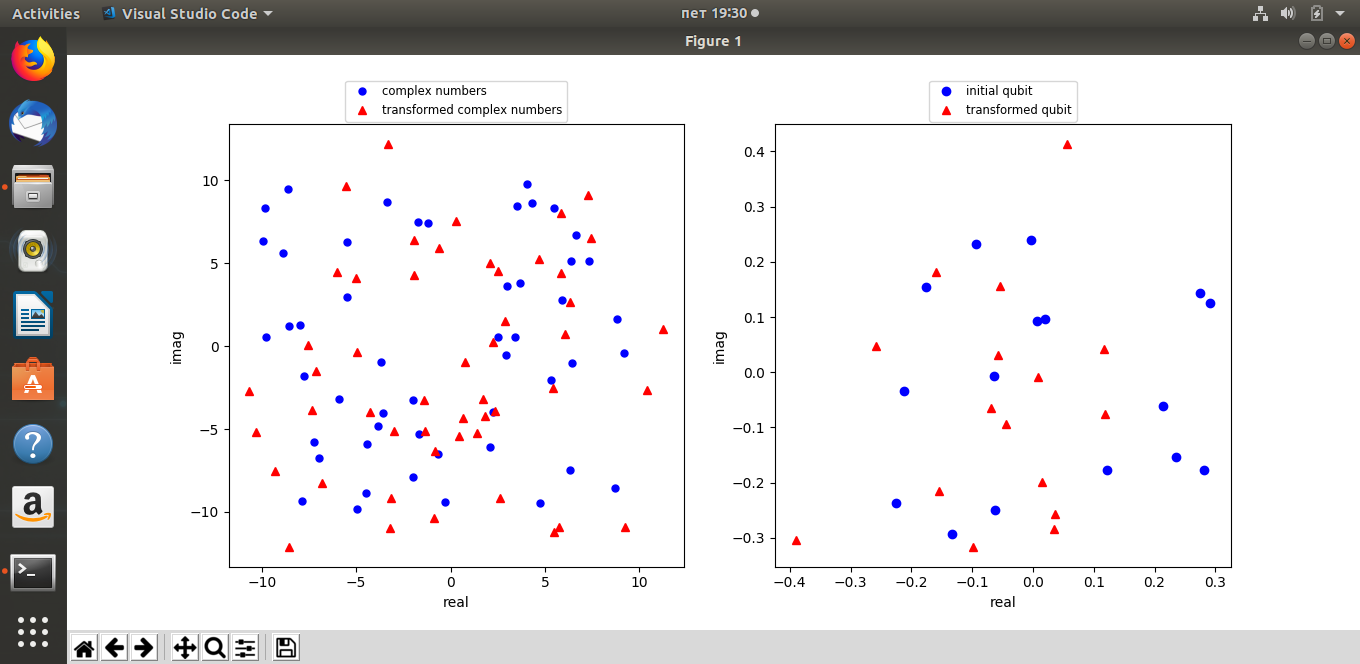
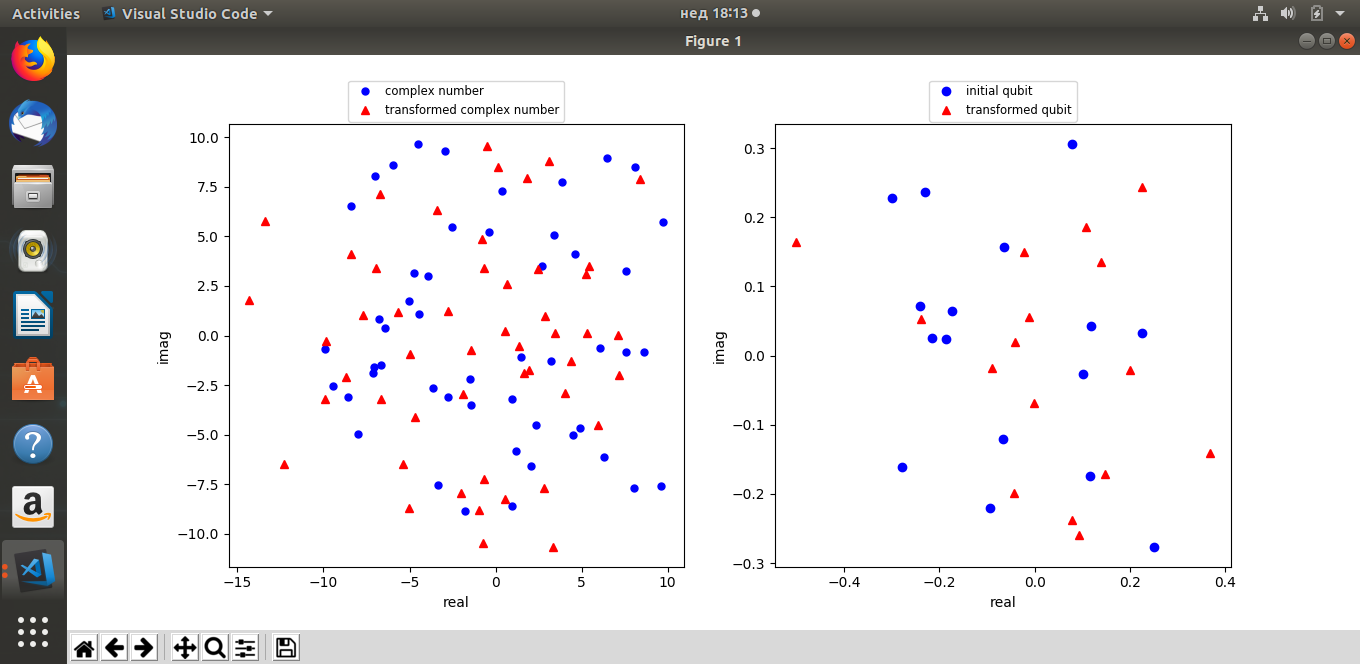
small fix

diff --git a/quantum_fourier.py b/quantum_fourier.py
@@ -101,7 +101,7 @@ class Complex:
             return 0
 
     def trigform(self):
-        return '{}(cos({}) + i*sin({}))'.format(round(self.modulus(), 3), \
+        return '{}*(cos({}) + i*sin({}))'.format(round(self.modulus(), 3), \
             round(self.arg(), 3), round(self.arg(), 3))
 
     def __round__(self, ndigits=0):
@@ -165,8 +165,11 @@ class Complex:
         if isinstance(z, Complex):
             self._real += z.real
             self._imag += z.imag
+            self._real_rounded = round(self._real, 3)
+            self._imag_rounded = round(self._imag, 3)
         else:
             self._real += z
+            self._real_rounded = round(self._real, 3)
 
         return self
 
@@ -190,8 +193,11 @@ class Complex:
         if isinstance(z, Complex):
             self._real -= z.real
             self._imag -= z.imag
+            self._real_rounded = round(self._real, 3)
+            self._imag_rounded = round(self._imag, 3)
         else:
             self._real -= z
+            self._real_rounded = round(self._real, 3)
 
         return self
 
@@ -215,9 +221,13 @@ class Complex:
         if isinstance(z, Complex):
             self._real = self._real * z.real - self._imag * z.imag
             self._imag = self._real * z.imag + self._imag * z.real
+            self._real_rounded = round(self._real, 3)
+            self._imag_rounded = round(self._imag, 3)
         else:
             self._real *= z
             self._imag *= z
+            self._real_rounded = round(self._real, 3)
+            self._imag_rounded = round(self._imag, 3)
 
         return self
 
@@ -230,8 +240,7 @@ class Complex:
         return res
 
     def __rtruediv__(self, z):
-        res = z * self.conjugate() / (self.modulus() ** 2)
-        return res
+        return z * self.conjugate() / (self.modulus() ** 2)
 
     def __pow__(self, k):
         arg = self.arg()
@@ -498,12 +507,15 @@ class QubitBloch(Qubit):
     def __init__(self, theta=0, phi=0, coeffs=None):
         if coeffs != None:
             if type(coeffs) == list:
-                self._theta = 2 * math.acos(coeffs[0].real)
-                self._phi = coeffs[1].arg()
-                
-                self._bits_superpos = 1
-                self._coeffs_len = 2
-                self._coeffs = coeffs
+                if len(coeffs) > 2:
+                    raise ValueError('incorrect coeffs length for qubit on Bloch\'s sphere (expected 2)')
+                else:
+                    self._theta = 2 * math.acos(coeffs[0].real)
+                    self._phi = coeffs[1].arg()
+                    
+                    self._bits_superpos = 1
+                    self._coeffs_len = 2
+                    self._coeffs = coeffs
             else:
                 raise ValueError('expected list of Complex coeffs, given {}'.format(type(coeffs)))
         else:
@@ -581,21 +593,24 @@ def qfourier(list_param):
     
             transformed.append(bk)
     elif type(list_param) == list:
-        if isinstance(list_param[0], Complex):
-            N = len(list_param)
-    
-            for k in range(N):
-                bk = (1 / math.sqrt(N)) * Complex.csum([list_param[j] * \
-                    ComplexTrig(2 * math.pi * j * k / N) for j in range(N)])
-    
-                transformed.append(bk)
-        elif isinstance(list_param[0], QubitBloch):
-            transformed = list(map(lambda q: QubitBloch(coeffs=qfourier(q.coeffs)), list_param))
-        elif isinstance(list_param[0], Qubit):
-            transformed = list(map(lambda q: Qubit(qfourier(q.coeffs)), list_param))
+        if len(list_param) > 0:
+            if isinstance(list_param[0], Complex):
+                N = len(list_param)
+        
+                for k in range(N):
+                    bk = (1 / math.sqrt(N)) * Complex.csum([list_param[j] * \
+                        ComplexTrig(2 * math.pi * j * k / N) for j in range(N)])
+        
+                    transformed.append(bk)
+            elif isinstance(list_param[0], QubitBloch):
+                transformed = list(map(lambda q: QubitBloch(coeffs=qfourier(q.coeffs)), list_param))
+            elif isinstance(list_param[0], Qubit):
+                transformed = list(map(lambda q: Qubit(qfourier(q.coeffs)), list_param))
+            else:
+                raise TypeError('unsupported object type for QFT')
         else:
-            raise TypeError('unsupported type for QFT')
+            raise ValueError('empty list of coeffs')
     else:
-        raise TypeError('unsupported type for QFT')
+        raise TypeError('unsupported collection type for QFT')
 
     return transformed

diff --git a/plot_sphere.py b/plot_sphere.py
@@ -13,7 +13,7 @@ def main():
     ax = fig.add_subplot(121, projection='3d')
 
     qubit_sphere = QubitBloch.create_sphere(num=576)
-    QubitBloch.qscatter(qubit_sphere, ax, labelq='qubits on Bloch\'s sphere')
+    QubitBloch.qscatter(qubit_sphere, ax, labelq='qubit on Bloch\'s sphere')
 
     ax.set_zlim(-1, 1)
     ax.set_xlim(-1, 1)
@@ -29,7 +29,7 @@ def main():
     ax_t = fig.add_subplot(122, projection='3d')
     qsphere_transformed = qfourier(qubit_sphere)
     QubitBloch.qscatter(qsphere_transformed, ax_t, colorq='r', markerq='^', \
-        labelq='transformed qubits on Bloch\'s sphere')
+        labelq='transformed qubit on Bloch\'s sphere')
 
     ax_t.set_zlim(-1, 1)
     ax_t.set_xlim(-1, 1)

diff --git a/plot_cpl_qub.py b/plot_cpl_qub.py
@@ -18,8 +18,8 @@ def main():
     plt.subplot(121)
     plt.xlabel('real')
     plt.ylabel('imag')
-    Complex.plot(complex_li, label_str='complex numbers', marker_size=5)
-    Complex.plot(complex_transformed, 'r^', 'transformed complex numbers')
+    Complex.plot(complex_li, label_str='complex number', marker_size=5)
+    Complex.plot(complex_transformed, 'r^', 'transformed complex number')
     plt.legend(loc='upper center', fontsize='small', bbox_to_anchor=(0.5, 1.111))
 
     # qubit, transformed qubit

diff --git a/plot_sq_circ.py b/plot_sq_circ.py
@@ -22,8 +22,11 @@ def main():
     plt.legend()
 
     # circle, transformed circle
-    circle = Complex.create_circle(radius=1.5, num=40)
+    circle = Complex.create_circle(radius=1.5, num=40, center=(1.5, 1.5))
     circle_transformed = qfourier(circle)
+
+    # for c in circle_transformed:
+    #     print('({}, {})'.format(c.real, c.imag))
 
     plt.subplot(122)
     plt.xlabel('real')
